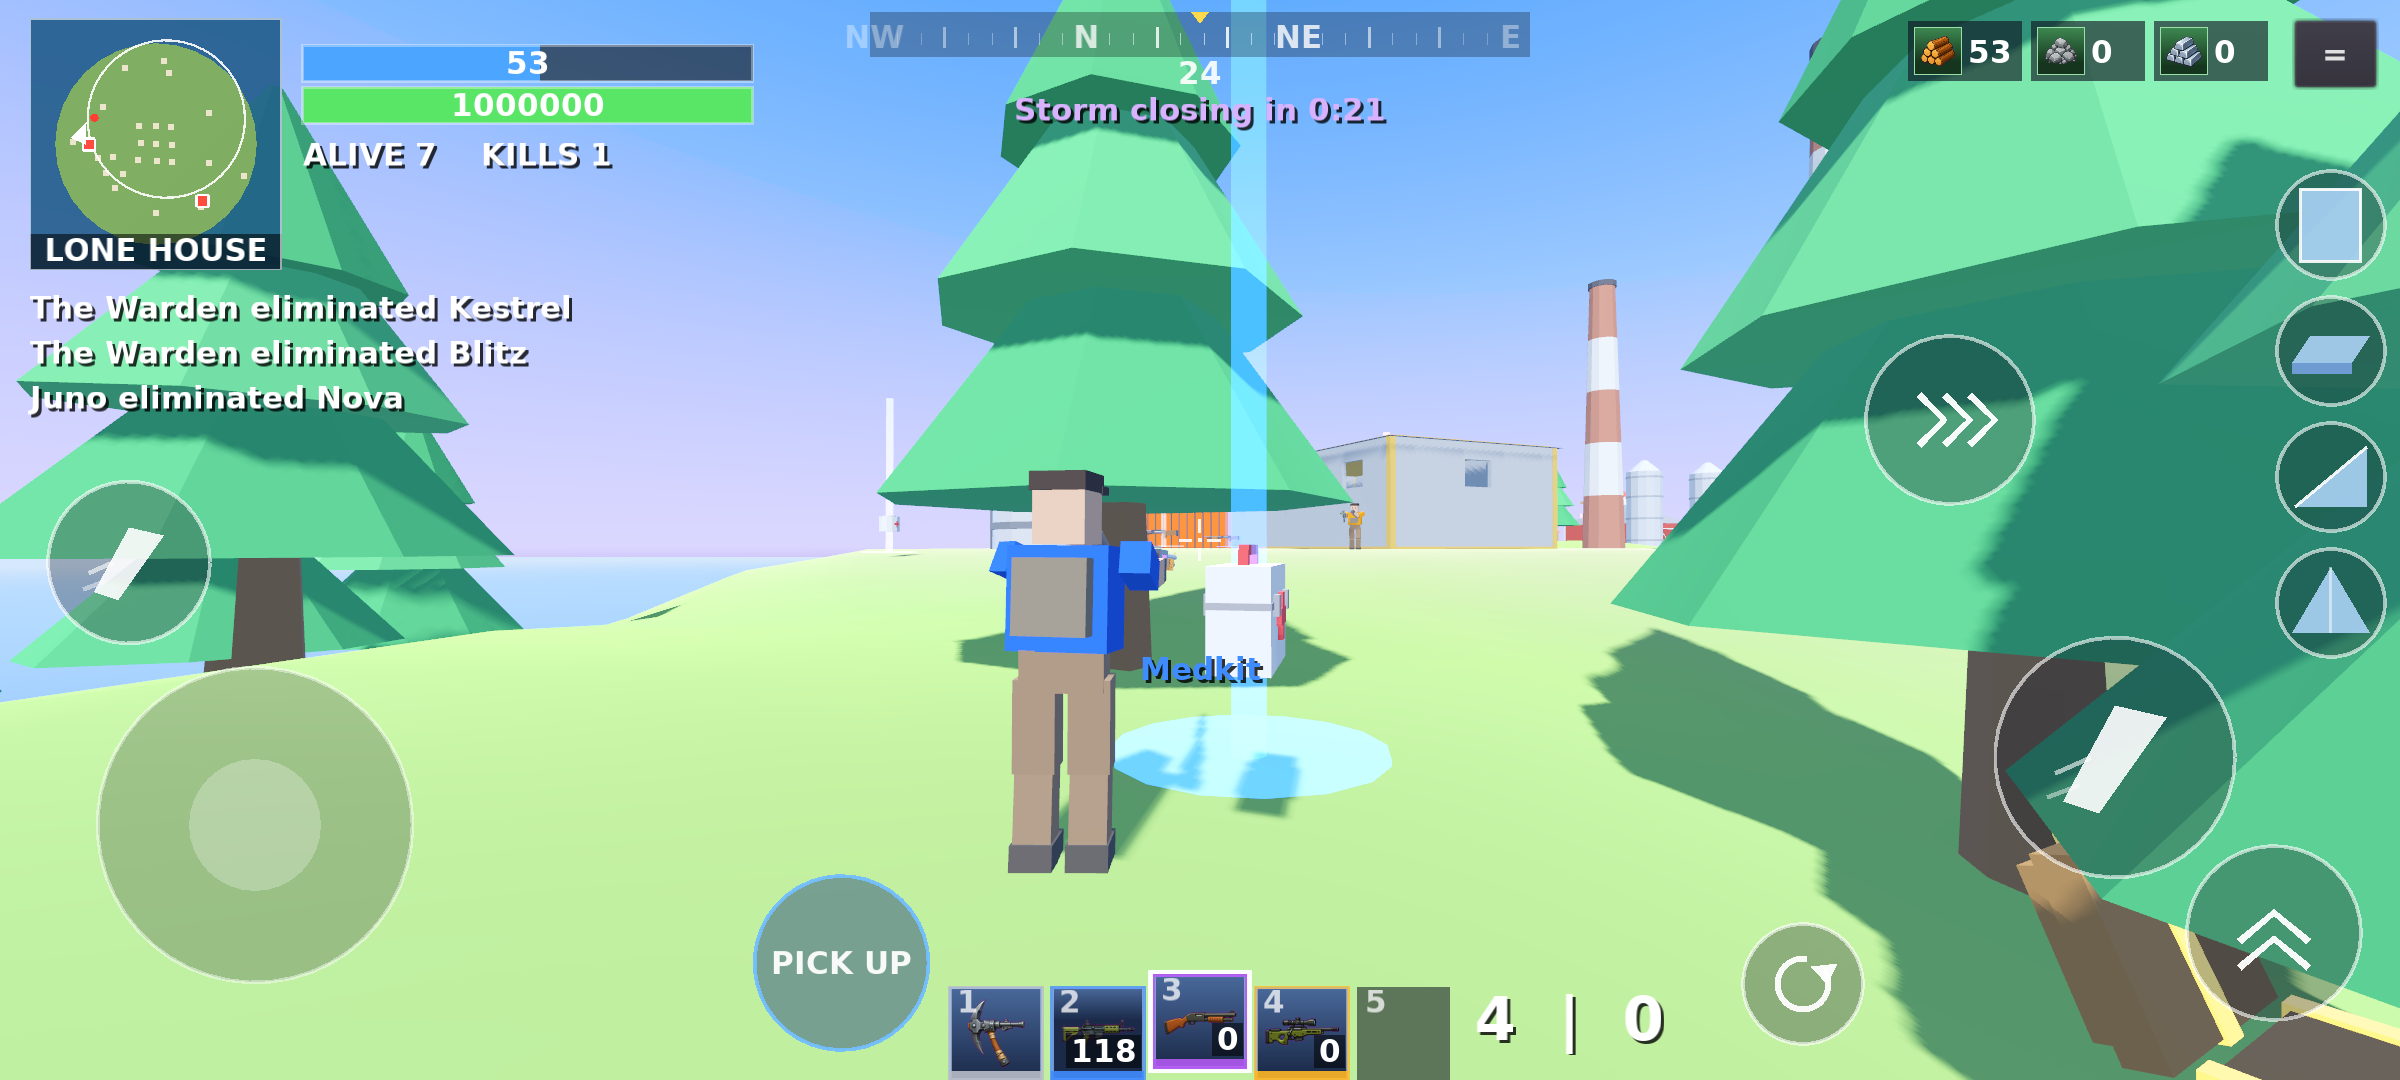
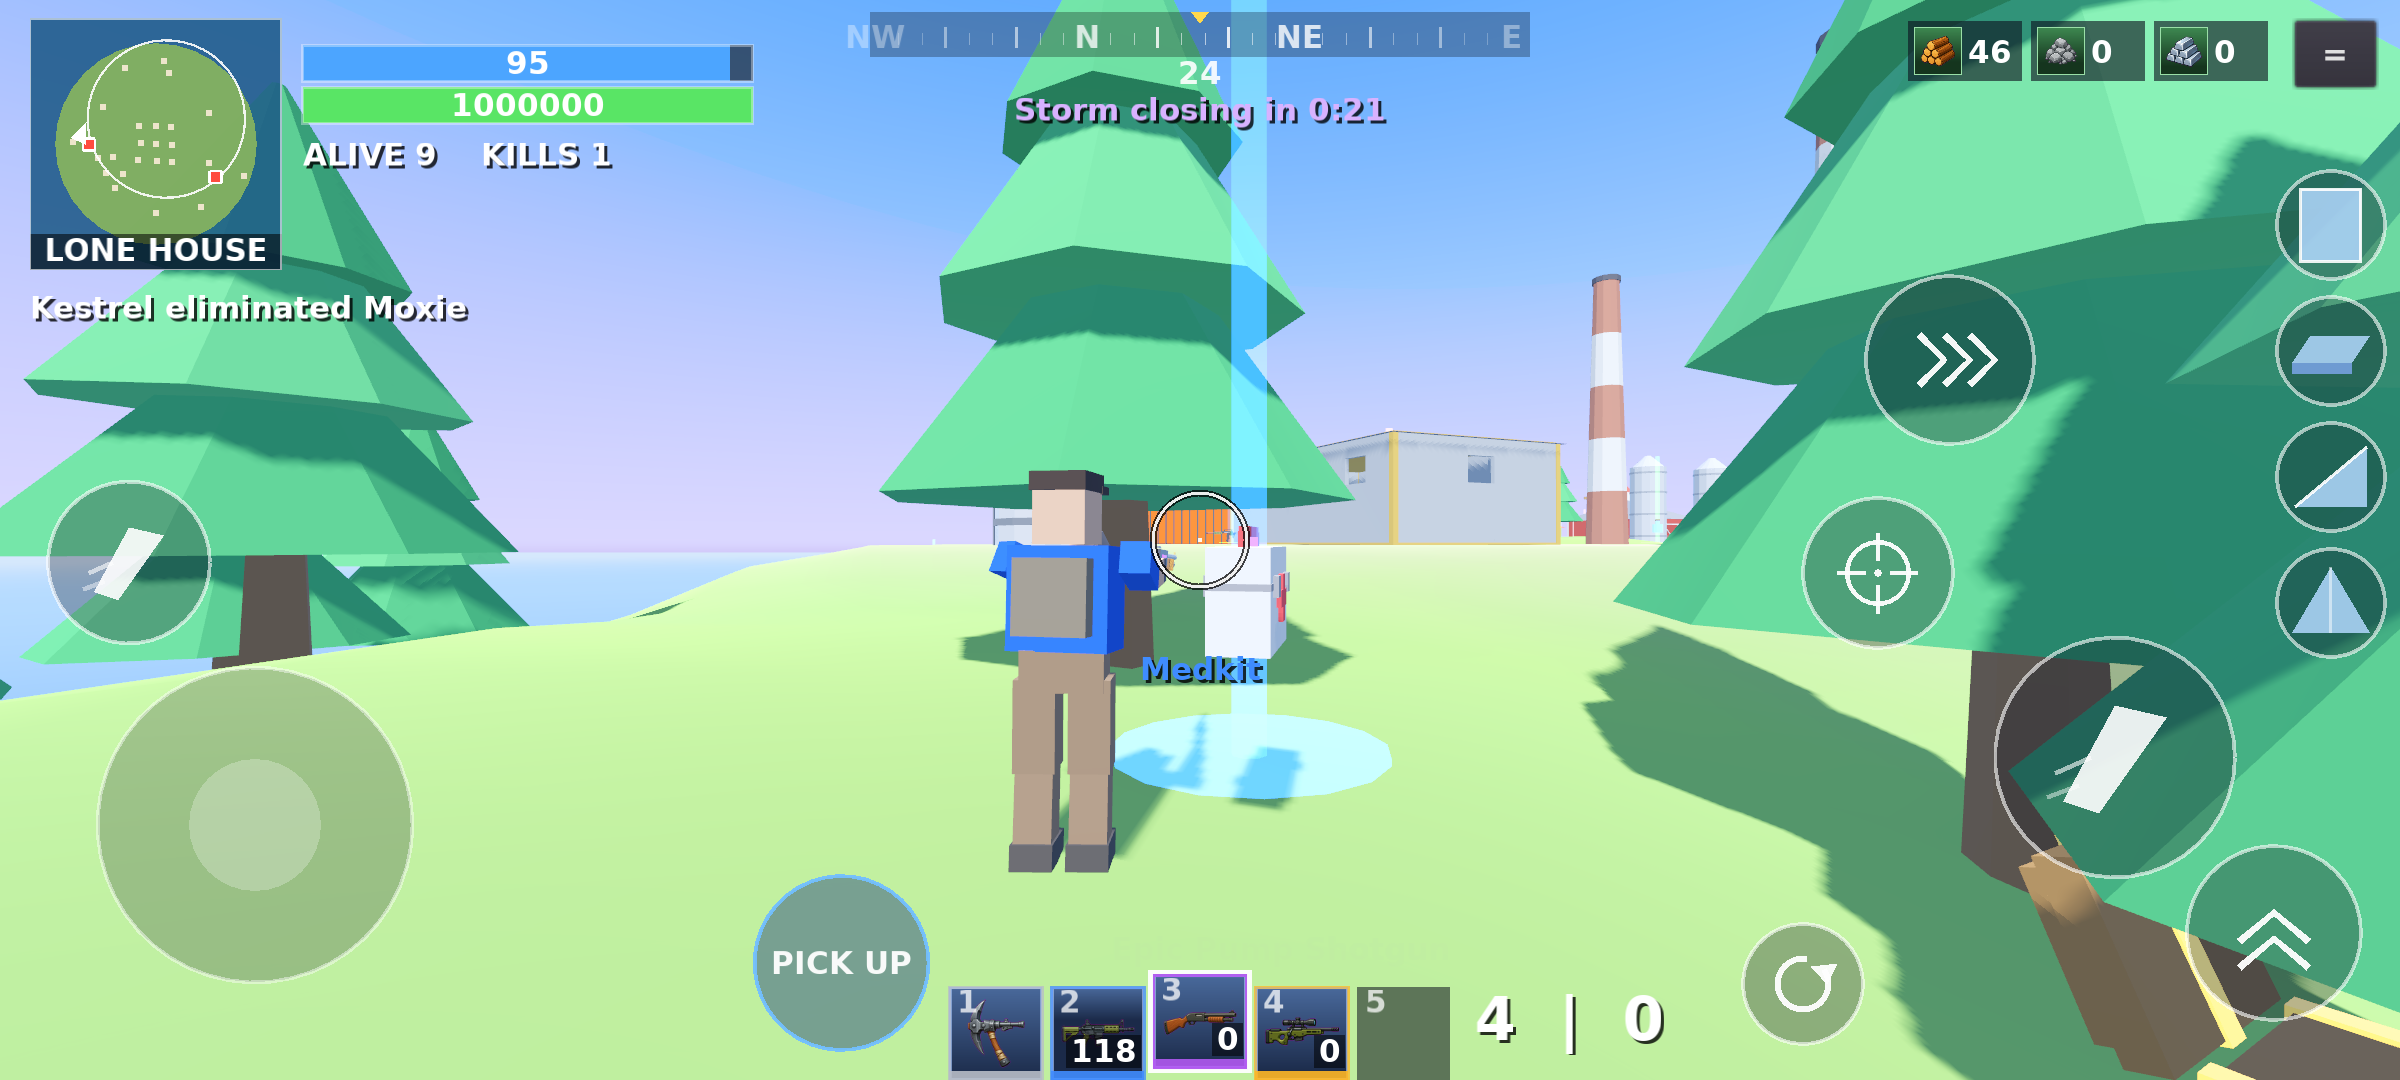
Aim down sights: right mouse / L2 / touch scope button, per-weapon sights and crosshairs, full sniper scope
Pistol irons, SMG red dot, AR holo ring, shotgun bead ring, sniper duplex scope overlay; each gun also has its own
hip-fire crosshair that opens with spread. Aiming zooms the FOV per weapon, tightens spread, slows walking, lowers
look sensitivity and overrides sprint; sniper hip-fire is deliberately inaccurate. Adds tests/scope_test.gd.

Claude-Session: https://claude.ai/code/session_01BQG85pk7vz8LCnTeCbPega

diff --git a/README.md b/README.md
@@ -40,6 +40,7 @@ storm closes in. Last one standing wins.
 | Fire (auto) | left mouse | R2 | big FIRE button right, or the second FIRE above the joystick (drag on either to aim) |
 | Jump, drop from bus, glider, handbrake | Space | A | JUMP |
 | Sprint | Shift | L3 | SPRINT toggle / push stick fully |
+| Aim down sights | right mouse (hold) | L2 | scope button (tap to toggle) |
 | Reload / horn | R | X | reload button beside the ammo readout |
 | Pick up, open, enter / exit vehicle | E | Y | PICK UP / EXIT (appears when relevant) |
 | Hotbar | 1-5 / wheel | L1 / R1 | tap the slots |
